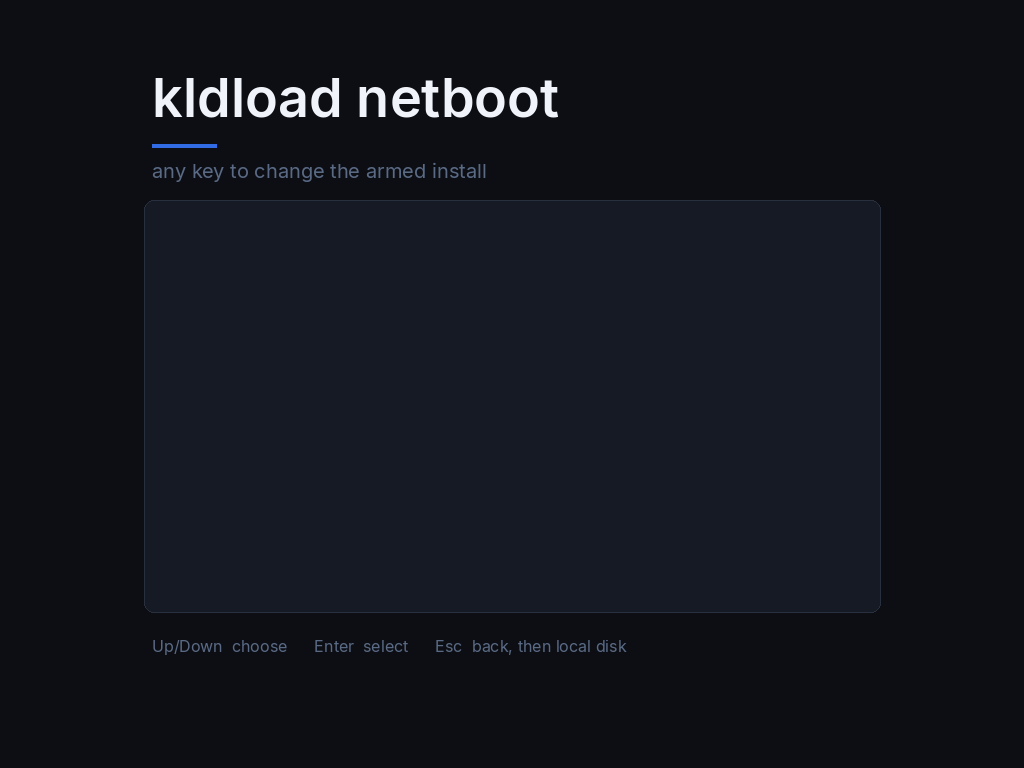
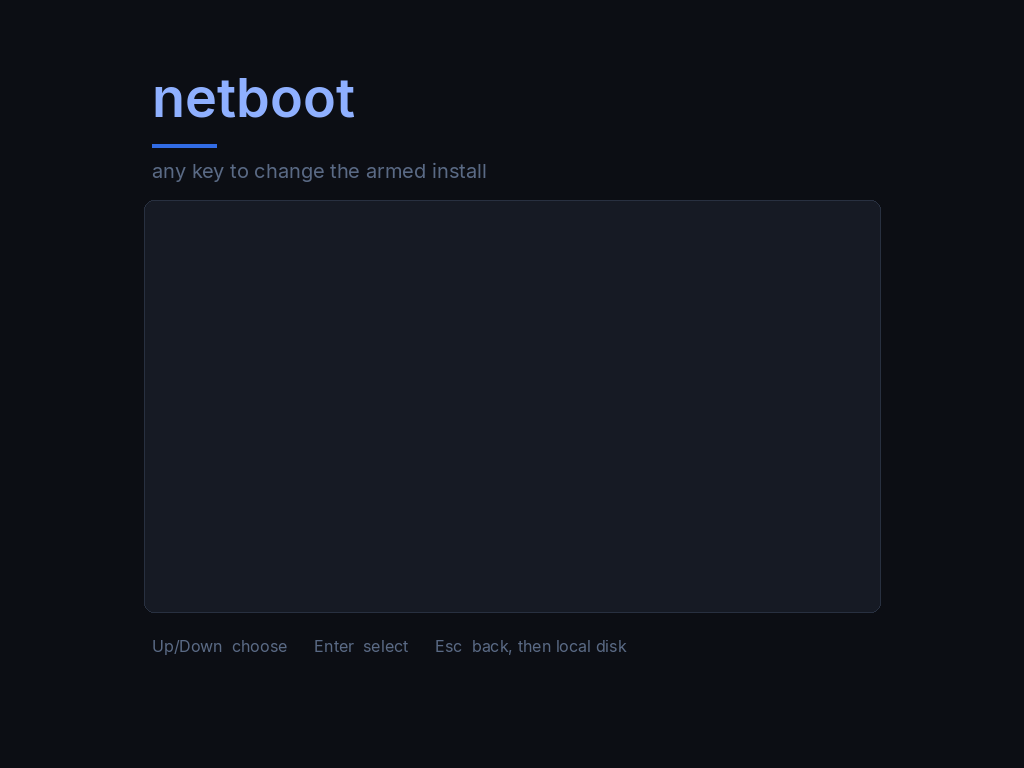
feat(netboot): credentials in the menu, Space ticks, the cursor stays put
From the first manual install on fiend (2026-09-18), in the operator's
words: "every selection the cursor goes to the bottom", "should be space
to x", "no way to go back", "called netboot, soft blue", "I would like it
better if those passwords were asked during the install menu, not after",
RHEL "enter your u/p and it builds like before", and "make sure the browser
does not pop up and ask to remember them".

MENU
- The toggled item stays selected (choose --default ${osel}); options
  open on the first box; Back is an item again (the panel has 15 rows).
- Space chooses, like Enter: build-iso patches iPXE's menu_ui.c to bind
  ' ' beside CR/LF, and asserts the edit landed.
- "credentials": masked iPXE forms (item --secret) for the login
  password and ZFS passphrase, each typed twice, and for rhel a second
  form for the Red Hat login -- one form of six fields needs more rows
  than iPXE allows (-ERANGE) and Enter did nothing.
- The typed values ride the LIVE kernel cmdline URI-encoded
  (${x:uristring}). The live system is RAM; the installed system boots
  its own cmdline. Anything left empty is still asked on the screen.
- Headline "netboot" in soft blue.
- Fix: the armed profile's seed was the NAME of the file given to
  arm-install ("answers/manual.env", a 404), not the <mac>.env the server
  serves. fiend worked only because its file was named after its MAC.

INSTALLER
- kldload.password/.passphrase/.rhel_user/.rhel_pass are accepted,
[…]

Changed region(s): [[0.125, 0.0938, 0.5625, 0.1562]]

diff --git a/live-build/config/includes.chroot/usr/local/share/kldload-webui/free/index.html b/live-build/config/includes.chroot/usr/local/share/kldload-webui/free/index.html
@@ -4635,7 +4635,7 @@ function handle(msg) {
       const e = document.getElementById('ishow-serr');
       e.className = 'ok';
       e.textContent = 'Accepted. The install continues.';
-      ['ishow-pw1', 'ishow-pw2', 'ishow-pp1', 'ishow-pp2'].forEach(function (id) {
+      ['ishow-pw1', 'ishow-pw2', 'ishow-pp1', 'ishow-pp2', 'ishow-rhu', 'ishow-rhp'].forEach(function (id) {
         document.getElementById(id).value = '';
       });
       break;
@@ -12049,6 +12049,9 @@ fetch('/api/build-info').then(r => r.json()).then(d => {
       <label data-need="passphrase">ZFS encryption passphrase (at least 8 characters, asked at every boot)
         <input type="password" id="ishow-pp1" autocomplete="new-password">
         <input type="password" id="ishow-pp2" autocomplete="new-password" placeholder="again"></label>
+      <label data-need="rhel">Red Hat login (used once to register this machine, then discarded)
+        <input type="text" id="ishow-rhu" autocomplete="off" spellcheck="false" placeholder="username">
+        <input type="password" id="ishow-rhp" autocomplete="new-password" placeholder="password"></label>
       <div id="ishow-serr"></div>
       <button type="submit">Continue the install</button>
     </form>
@@ -12617,6 +12620,13 @@ fetch('/api/build-info').then(r => r.json()).then(d => {
     var out = { action: 'install_secrets' };
     var pairs = { password: ['ishow-pw1', 'ishow-pw2'], passphrase: ['ishow-pp1', 'ishow-pp2'] };
     for (var i = 0; i < needs.length; i++) {
+      if (needs[i] === 'rhel') {
+        var ru = document.getElementById('ishow-rhu').value, rp = document.getElementById('ishow-rhp').value;
+        if (!ru || !rp) { err.textContent = 'The Red Hat username and password are both needed.'; return; }
+        out.rhel_user = ru;
+        out.rhel_pass = rp;
+        continue;
+      }
       var ids = pairs[needs[i]];
       if (!ids) continue;
       var a = document.getElementById(ids[0]).value, b = document.getElementById(ids[1]).value;

diff --git a/tools/netboot/gen_menu_bg.py b/tools/netboot/gen_menu_bg.py
@@ -36,6 +36,7 @@ BORDER = "#283040"
 ACCENT = "#326ce5"
 BRIGHT = "#f0f4fa"
 DIM = "#5a6a85"
+SOFT_BLUE = "#8fb0ff"
 FONT = "/usr/share/fonts/rsms-inter-fonts/Inter-SemiBold.ttf"
 FONT_REG = "/usr/share/fonts/rsms-inter-fonts/Inter-Regular.ttf"
 
@@ -47,9 +48,9 @@ def main(out: str) -> None:
     sub = ImageFont.truetype(FONT_REG, 20)
     hint = ImageFont.truetype(FONT_REG, 16)
 
-    # "kldload netboot": operator, 2026-09-18, after a day of "assemble":
-    # "the assemble in the network boot screen looks dumb .. call it kldload netboot".
-    d.text((LEFT - 8, 64), "kldload netboot", font=word, fill=BRIGHT)
+    # "netboot", in soft blue: operator, 2026-09-18 -- "called netboot, no need
+    # for kldload, they get it", after "assemble" and "kldload netboot".
+    d.text((LEFT - 8, 64), "netboot", font=word, fill=SOFT_BLUE)
     d.rectangle((LEFT - 8, 144, LEFT + 56, 147), fill=ACCENT)
     d.text((LEFT - 8, 158), "any key to change the armed install", font=sub, fill=DIM)
 
